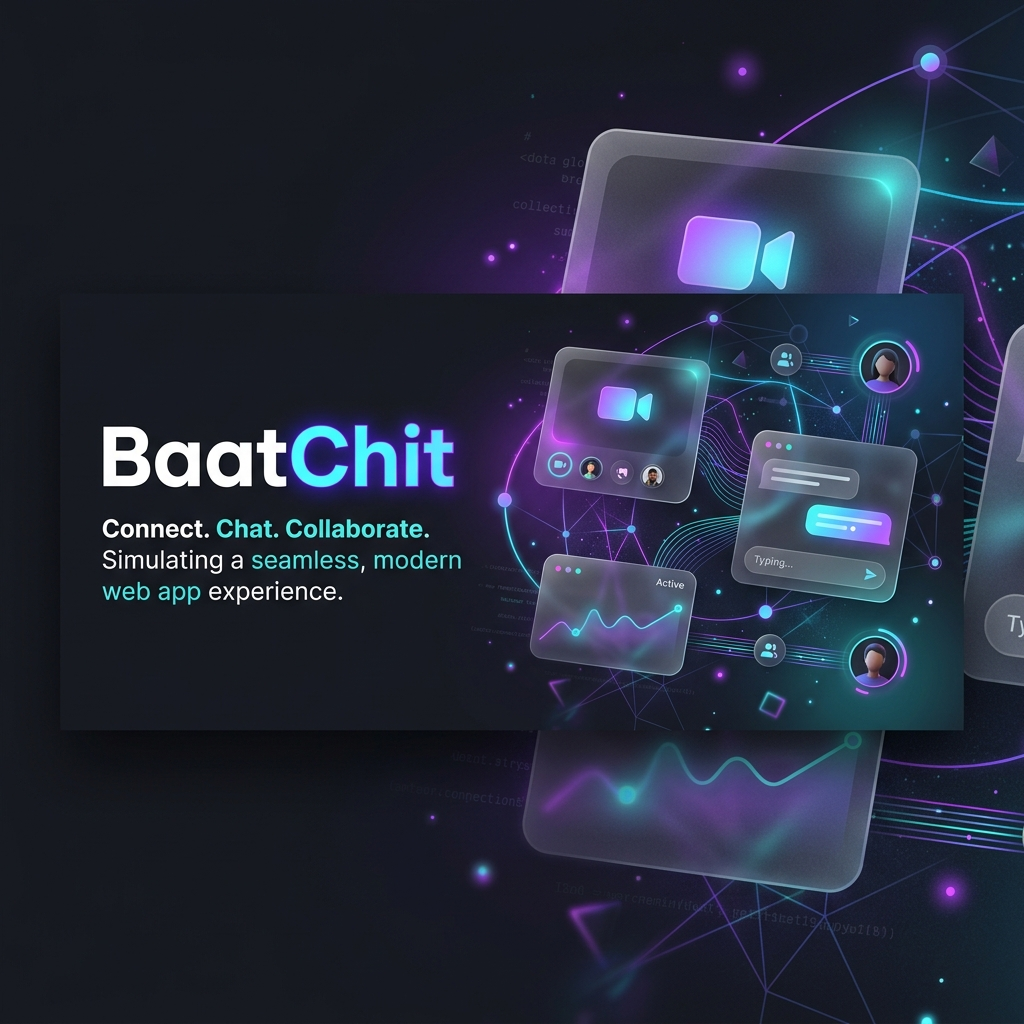
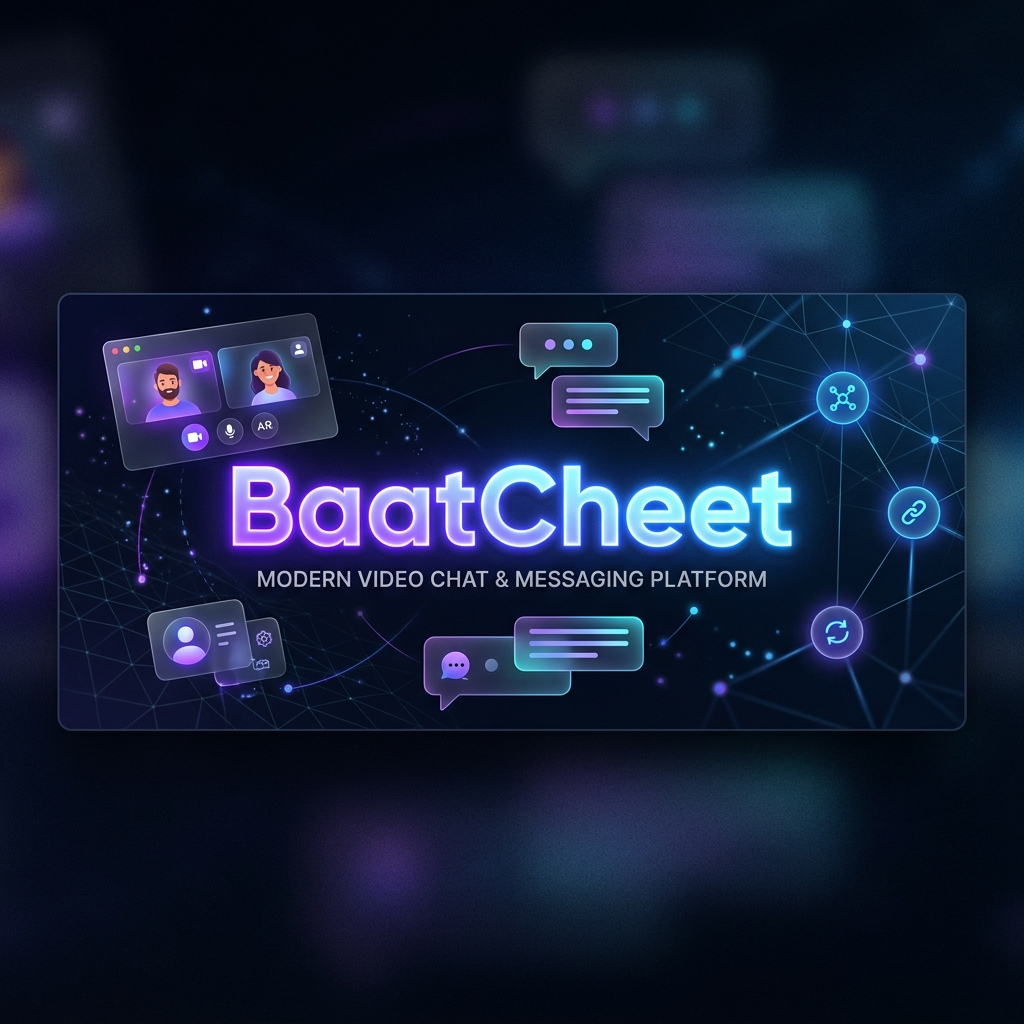
updated README

diff --git a/README.md b/README.md
@@ -1,9 +1,9 @@
 <div align="center">
-  <img src="static/banner.png" alt="BaatChit Banner" width="100%" style="border-radius: 12px; margin-bottom: 20px;">
+  <img src="static/banner.png" alt="BaatCheet Banner" width="100%" style="border-radius: 12px; margin-bottom: 20px;">
   
-  # 💬 BaatChit: Ephemeral Video & Text Chat
+  # 💬 BaatCheet: Ephemeral Video & Text Chat
 
-  *A sleek, modern, fully ephemeral real-time communication platform built with Flask, WebRTC, and pure magic.*
+  *A sleek, modern, scalable, and fully ephemeral real-time communication platform built with Flask, WebRTC, Redis, and pure magic.*
 </div>
 
 ---
@@ -12,54 +12,61 @@
 
 - **🎥 Peer-to-Peer Video Calls:** High-quality, low-latency video streaming powered by native WebRTC and Google STUN servers.
 - **💬 Real-Time Messaging:** WhatsApp-styled text chat interface with dynamic typing indicators.
-- **👻 Fully Ephemeral:** No databases, no logs, no chat history. Once everyone leaves a room, the data is gone forever.
+- **👻 Fully Ephemeral:** No persistent SQL databases, no logs, no chat history. Once everyone leaves a room, the data is gone forever.
 - **📱 Fully Responsive Design:** Stunning glassmorphism UI with a dynamic mobile layout featuring a YouTube-style floating Picture-in-Picture (PIP) miniplayer.
 - **🎉 Animated Reactions:** Instantly send fully animated emoji reactions (👍, ❤️, 😂, 🎉, 😘) that float seamlessly across the entire screen!
 - **🎧 Advanced Audio Filtering:** Built-in echo cancellation, automatic gain control, and noise suppression for crystal clear audio.
+- **🚀 Scalable Architecture:** Backend engineered with Redis to support multi-worker deployments (Gunicorn/Eventlet), easily handling thousands of concurrent connections.
 
 ## 🚀 Quick Start
 
 ### Prerequisites
-- Python 3.8+
+- Python 3.10
+- Redis Server (local or cloud)
 - A modern web browser with WebRTC support (Chrome, Firefox, Safari)
 
 ### Installation
 
 1. **Clone the repository:**
    ```bash
-   git clone https://github.com/yourusername/baatchit.git
-   cd baatchit
+   git clone https://github.com/yourusername/baatcheet.git
+   cd baatcheet
    ```
 
 2. **Install dependencies:**
-   *(Ensure you have Flask, Flask-SocketIO, and Eventlet installed)*
+   *(Ensure you have Flask, Flask-SocketIO, Eventlet, and Redis installed)*
    ```bash
-   pip install flask flask-socketio eventlet
+   pip install -r requirements.txt
    ```
 
-3. **Run the server:**
-   ```bash
-   python app.py
-   ```
-   *Note: For camera and microphone access to work over the internet on non-localhost devices, you must serve the application over **HTTPS** or use an SSH tunnel like `ngrok`.*
+3. **Start your Redis Server:**
+   Ensure you have a Redis instance running locally on port `6379`, or set your `REDIS_URL` environment variable.
 
-4. **Access the application:**
-   Open your browser and navigate to `http://localhost:5000`
+4. **Run the server (Production Mode):**
+   ```bash
+   gunicorn --worker-class eventlet -w 1 app:app
+   ```
+   *Note: For camera and microphone access to work over the internet on non-localhost devices, you must serve the application over **HTTPS** or deploy it to a platform like Render.*
+
+5. **Access the application:**
+   Open your browser and navigate to `http://localhost:8000` (Gunicorn default port).
 
 ## 🛠️ Tech Stack
 
 - **Backend:** Python, Flask, Flask-SocketIO, Eventlet
+- **State Management:** Redis (In-Memory Key-Value Store)
 - **Frontend:** Vanilla JavaScript, HTML5, Vanilla CSS
 - **Signaling:** WebSockets (Socket.IO)
 - **Media Streaming:** WebRTC API
 
 ## 📱 Mobile Experience
-BaatChit is designed to feel like a native application on mobile devices.
+BaatCheet is designed to feel like a native application on mobile devices.
 - **Floating Miniplayer:** The video feed collapses into a picture-in-picture window while chatting.
 - **Smart Controls:** Controls intuitively adapt and wrap perfectly based on your screen size.
+- **Dynamic Glassmorphism:** Deep blurs and frosted glass panels that maintain performance on mobile devices.
 
 ## 🔒 Security & Privacy
-This application does **not** use a database. All room states and active connections are held entirely in memory. Once the last person disconnects, the room automatically terminates and wipes itself from existence.
+This application does **not** use a permanent database. All room states and active connections are held entirely in Redis with TTLs (Time-To-Live). Once the last person disconnects, the room automatically self-destructs and wipes itself from existence.
 
 ---
 <div align="center">